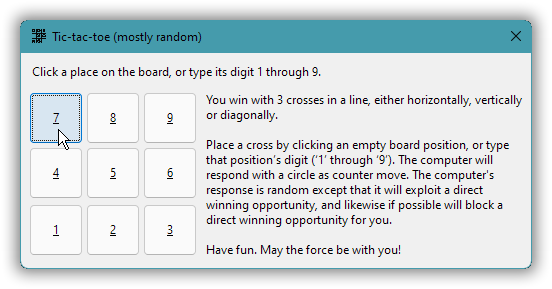
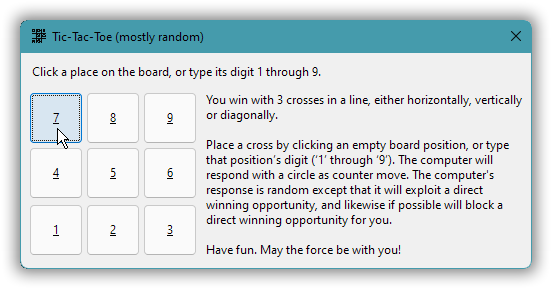
-

Changed region(s): [[0.1232, 0.0934, 0.3696, 0.1557], [0.0924, 0.4671, 0.1232, 0.4983]]

diff --git a/docs/part-03.md b/docs/part-03.md
@@ -156,8 +156,8 @@ EXSTYLE WS_EX_OVERLAPPEDWINDOW | WS_EX_TOPMOST
 CAPTION "Tic-Tac-Toe (mostly random)"
 FONT 8, "MS Shell Dlg", 400, 0, 0x1
 BEGIN
-    LTEXT           "Click a place on the board,  or type its digit 1 through 9.", 0,
-                    7, 7, 313, 11, SS_NOPREFIX
+    LTEXT           "Click a place on the board, or type its digit 1 through 9.",
+                    0, 7, 7, 313, 11, SS_NOPREFIX
     PUSHBUTTON      "7", BOARD_BUTTON_BASE + 7, 5, 24, 36, 32, BS_FLAT
     PUSHBUTTON      "8", BOARD_BUTTON_BASE + 8, 43, 24, 36, 32, BS_FLAT
     PUSHBUTTON      "9", BOARD_BUTTON_BASE + 9, 81, 24, 36, 32, BS_FLAT
@@ -167,8 +167,8 @@ BEGIN
     PUSHBUTTON      "1", BOARD_BUTTON_BASE + 1, 5, 93, 36, 32, BS_FLAT
     PUSHBUTTON      "2", BOARD_BUTTON_BASE + 2, 43, 93, 36, 32, BS_FLAT
     PUSHBUTTON      "3", BOARD_BUTTON_BASE + 3, 81, 93, 36, 32, BS_FLAT
-    LTEXT           "<The rules should be displayed here>", IDC_RULES_DISPLAY,
-                    123, 25, 217, 96, SS_NOPREFIX
+    LTEXT           "<The rules should be displayed here>",
+                    IDC_RULES_DISPLAY, 123, 25, 217, 96, SS_NOPREFIX
 END
 
 STRINGTABLE
@@ -763,7 +763,7 @@ LANGUAGE LANG_ENGLISH, SUBLANG_ENGLISH_US
 IDD_MAIN_WINDOW DIALOGEX 0, 0, 340, 132
 STYLE DS_SETFONT | DS_CENTER | WS_CAPTION | WS_SYSMENU
 EXSTYLE WS_EX_OVERLAPPEDWINDOW | WS_EX_TOPMOST
-CAPTION "Tic-tac-toe (mostly random)"
+CAPTION "Tic-Tac-Toe (mostly random)"
 FONT 8, "MS Shell Dlg", 400, 0, 0x1
 BEGIN
     LTEXT           "Click a place on the board, or type its digit 1 through 9.",
